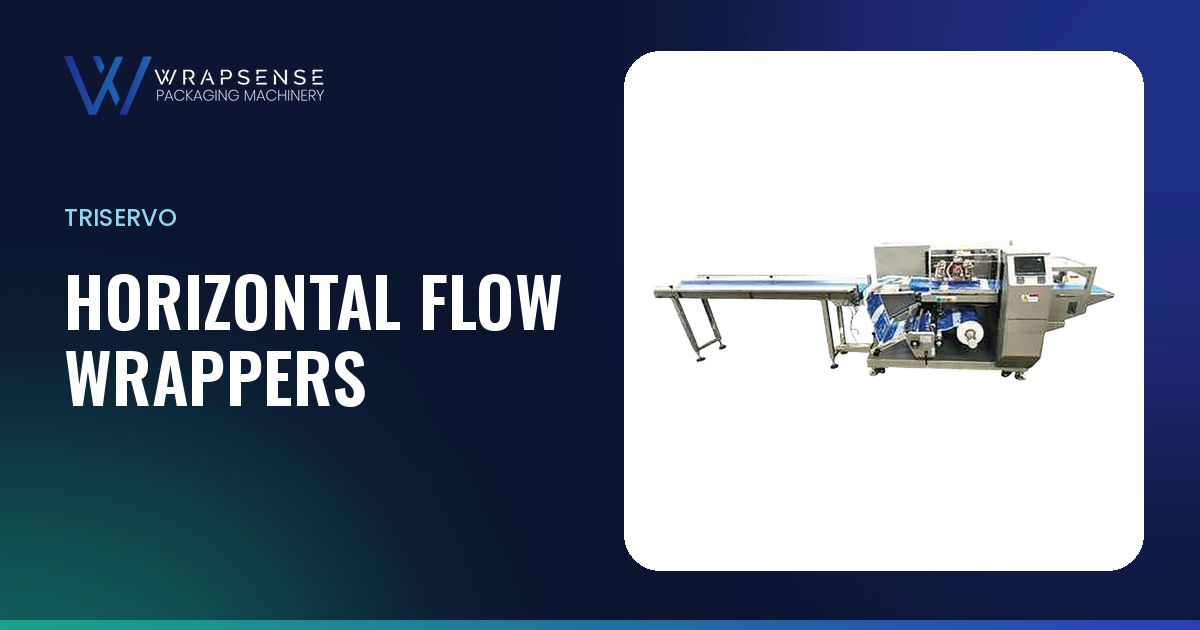
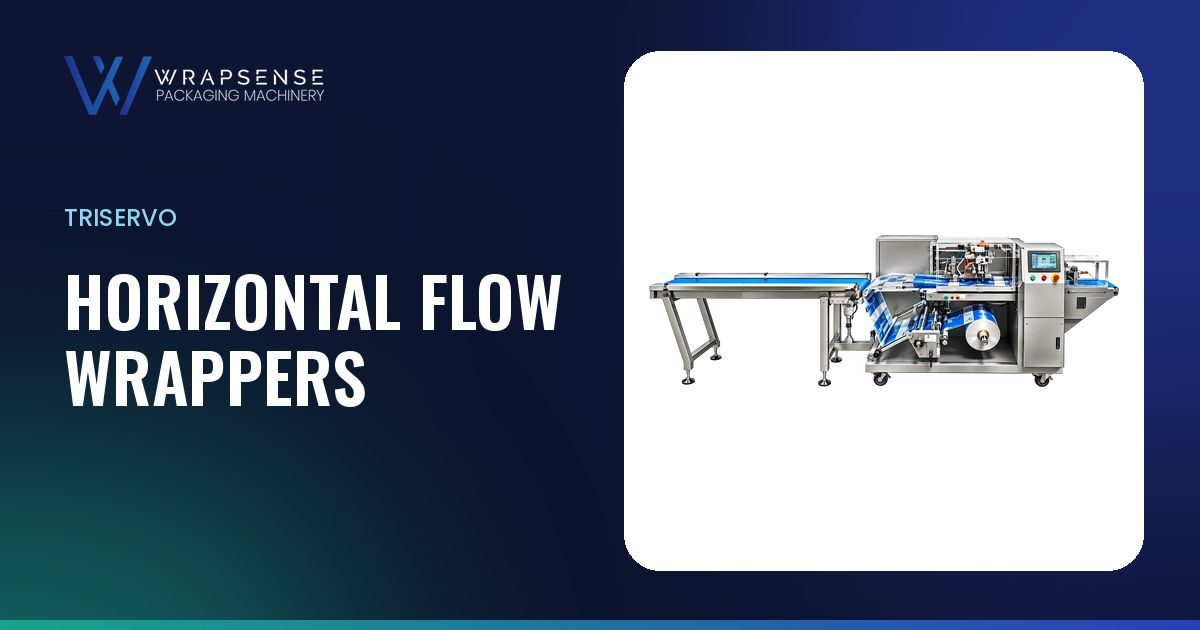
TriServo 23000-3SP: new render; blurry floor photo removed
- New render cut out from white (pure-white gaps only, so clear film and steel highlights stay),
  1600x517 WebP with alpha (was 800x245); same filename: product, Flow Wrappers category, home
  showcase panel, related cards (18 pages); OG images regenerated
- Removed the blurry video-still floor photo from the gallery, deleted it and dropped it from the
  catalog extraction script

Claude-Session: https://claude.ai/code/session_01QFn2KCFGMPNr5c9DCf1rvZ

Changed region(s): [[0.5242, 0.3619, 0.9558, 0.6333]]

diff --git a/tools/extract-catalog-images.py b/tools/extract-catalog-images.py
@@ -38,7 +38,7 @@ MAP = {
   # photos
   0:('photos','film-line','photo'), 3:('photos','filling-closeup','photo'), 4:('photos','technician','photo'),
   123:('photos','weigher-snacks','photo'), 125:('photos','weigher-install','photo'), 128:('photos','vffs-install','photo'),
-  181:('photos','case-erector-action','photo'), 147:('photos','flow-wrapper-floor','photo'),
+  181:('photos','case-erector-action','photo'),
   206:('photos','case-packing-action','photo'), 204:('photos','case-packing-line','photo'),
   226:('photos','cartoning-action','photo'), 228:('photos','cartoning-rotary','photo'),
   246:('photos','capping-action','photo'), 250:('photos','sachet-film','photo'), 251:('photos','weigher-detail','photo'),
